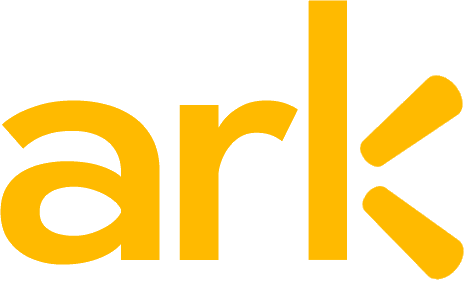
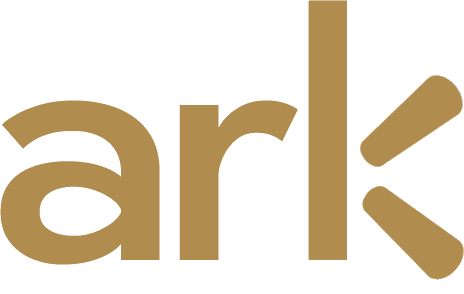
Tokenise the darks so a palette change reaches the header
The navy palette left the header black. The bar's background is
rgba(17, 17, 17, 0.94) — an rgba() literal, which cannot take a hex custom
property, so it never read --black no matter what --black was set to. Same for
the mobile menu panel, the quote card and its border.

--ink-rgb carries the ink as an rgb triple so rgba() can be built from it, and
four more tokens cover the raised and card surfaces. palette.py derives all
five from the ink at a fixed step, so a new palette still only names two real
colours.

diff --git a/styles.css b/styles.css
@@ -1,14 +1,14 @@
 :root {
-  --black: #111111;
-  --charcoal: #222226;
-  --gold: #E8B923;
-  --gold-light: #F5D566;
-  --gold-dark: #C79A15;
-  --gold-soft: rgba(232, 185, 35, 0.12);
-  --cream: #FAF8F3;
-  --gray: #6B6B6F;
-  --gray-light: #9A9A9E;
-  --border: #E8E6DF;
+  --black: #1A1310;
+  --charcoal: #2A211B;
+  --gold: #B08D4F;
+  --gold-light: #C6AD80;
+  --gold-dark: #8A6C35;
+  --gold-soft: rgba(204, 90, 49, 0.12);
+  --cream: #FAF7F1;
+  --gray: #6E655B;
+  --gray-light: #9C9287;
+  --border: #E9E1D5;
   --radius: 10px;
   --radius-lg: 16px;
   --max-width: 1160px;
@@ -23,10 +23,10 @@
   --edge: clamp(24px, calc((100vw - 1160px) / 2 + 24px), 260px);
   --hero-copy: clamp(560px, 58vw, 880px);   /* the hero's left column; the render takes the rest */
   --ease: cubic-bezier(0.16, 1, 0.3, 1);
-  --shadow-sm: 0 1px 2px rgba(17, 17, 17, 0.04), 0 1px 3px rgba(17, 17, 17, 0.03);
-  --shadow-md: 0 8px 24px rgba(17, 17, 17, 0.07), 0 2px 6px rgba(17, 17, 17, 0.04);
-  --shadow-lg: 0 24px 48px rgba(17, 17, 17, 0.14), 0 8px 16px rgba(17, 17, 17, 0.06);
-  --shadow-gold: 0 10px 24px rgba(199, 154, 21, 0.28);
+  --shadow-sm: 0 1px 2px rgba(var(--ink-rgb), 0.04), 0 1px 3px rgba(var(--ink-rgb), 0.03);
+  --shadow-md: 0 8px 24px rgba(var(--ink-rgb), 0.07), 0 2px 6px rgba(var(--ink-rgb), 0.04);
+  --shadow-lg: 0 24px 48px rgba(var(--ink-rgb), 0.14), 0 8px 16px rgba(var(--ink-rgb), 0.06);
+  --shadow-gold: 0 10px 24px rgba(141, 109, 15, 0.28);
 }
 
 * { box-sizing: border-box; margin: 0; padding: 0; }
@@ -128,7 +128,7 @@ textarea:focus-visible {
   transition: box-shadow 0.25s var(--ease), border-color 0.25s var(--ease);
 }
 .site-header.is-scrolled {
-  box-shadow: 0 4px 20px rgba(17, 17, 17, 0.06);
+  box-shadow: 0 4px 20px rgba(var(--ink-rgb), 0.06);
   border-bottom-color: transparent;
 }
 .header-inner {
@@ -221,8 +221,8 @@ textarea:focus-visible {
   display: flex;
   align-items: center;
   background:
-    radial-gradient(circle at 85% 0%, rgba(232,185,35,0.18), transparent 55%),
-    radial-gradient(circle at 0% 100%, rgba(232,185,35,0.08), transparent 45%),
+    radial-gradient(circle at 85% 0%, rgba(204, 90, 49,0.18), transparent 55%),
+    radial-gradient(circle at 0% 100%, rgba(204, 90, 49,0.08), transparent 45%),
     var(--cream);
   position: relative;
   overflow: hidden;
@@ -325,7 +325,7 @@ textarea:focus-visible {
 .service-card:hover {
   box-shadow: var(--shadow-lg);
   transform: translateY(-4px);
-  border-color: rgba(232, 185, 35, 0.4);
+  border-color: rgba(204, 90, 49, 0.4);
 }
 .service-icon {
   display: inline-flex;
@@ -741,7 +741,7 @@ a.service-card:focus-visible {
        is a five-level difference, which is invisible on a swatch and clearly
        readable as ghosted headline text once it is spread across a whole
        panel. A menu is not a place for a translucency effect. */
-    background: #141414;
+    background: var(--ink-raised);
     padding: 4px var(--edge) 14px;
     border-top: 1px solid rgba(255, 255, 255, 0.10);
     box-shadow: 0 18px 40px rgba(0, 0, 0, 0.30);
@@ -836,7 +836,7 @@ a.service-card:focus-visible {
      it follows the letterforms' alpha instead of drawing a rectangle around a
      transparent PNG. Offset down rather than spread evenly, so it reads as the
      mark sitting above the cream rather than glowing on it. */
-  filter: drop-shadow(0 3px 8px rgba(17, 17, 17, 0.22));
+  filter: drop-shadow(0 3px 8px rgba(var(--ink-rgb), 0.22));
 }
 
 .logo { --logo-h: 40px; }
@@ -1024,7 +1024,7 @@ a.service-card:focus-visible {
 
 .page-hero {
   background:
-    radial-gradient(circle at 88% 0%, rgba(232,185,35,0.16), transparent 58%),
+    radial-gradient(circle at 88% 0%, rgba(204, 90, 49,0.16), transparent 58%),
     var(--cream);
   padding: 66px 0 54px;
   border-bottom: 1px solid var(--border);
@@ -1295,7 +1295,7 @@ a.service-card:focus-visible {
   border-left: 3px solid var(--gold);
 }
 .post-body blockquote p { margin: 0; font-size: 1.08rem; }
-.post-body a { color: var(--gold-dark); border-bottom: 1px solid rgba(199,154,21,0.4); }
+.post-body a { color: var(--gold-dark); border-bottom: 1px solid rgba(141, 109, 15,0.4); }
 .post-body a:hover { border-bottom-color: currentColor; }
 .post-body code {
   background: var(--cream);
@@ -1489,7 +1489,7 @@ a.service-card:focus-visible {
    ========================================================================== */
 
 .site-header {
-  background: rgba(17, 17, 17, 0.94);
+  background: rgba(var(--ink-rgb), 0.94);
   border-bottom-color: rgba(255, 255, 255, 0.10);
 }
 .site-header.is-scrolled {
@@ -1895,3 +1895,4 @@ a.service-card:focus-visible {
 @media (prefers-reduced-motion: reduce) {
   .contact-accent, .contact-form { opacity: 1 !important; transform: none !important; }
 }
+--on-dark-muted: #C9C9CC;

diff --git a/palette.py b/palette.py
@@ -140,6 +140,18 @@ def apply(name):
     recolour(os.path.join(MASTERS, "retailmark-wordmark.png"),
              os.path.join(A, "retailmark-wordmark-dark.png"), p["ink"], p["accent"])
 
+    # Derived, not hand-specified: five more tokens all sit a fixed step off
+    # the ink, so a new palette only ever has to name two real colours.
+    ink = tuple(int(p["ink"][i:i + 2], 16) for i in (1, 3, 5))
+    step = lambda n: "#%02X%02X%02X" % tuple(min(255, v + n) for v in ink)
+    derived = {
+        "--ink-rgb": f"{ink[0]}, {ink[1]}, {ink[2]}",
+        "--ink-raised": step(3),
+        "--card-dark": step(9),
+        "--card-border": step(36),
+        "--on-dark-muted": "#%02X%02X%02X" % tuple(min(255, v + 190) for v in ink),
+    }
+
     css = os.path.join(HERE, "styles.css")
     s = open(css).read()
     for tok, val in (("--black", p["ink"]), ("--charcoal", p["charcoal"]),
@@ -148,6 +160,8 @@ def apply(name):
                      ("--gray", p["gray"]), ("--gray-light", p["gray_light"]),
                      ("--border", p["border"])):
         s = re.sub(rf'(  {re.escape(tok)}: )#[0-9A-Fa-f]{{6}};', rf'\g<1>{val};', s, count=1)
+    for tok, val in derived.items():
+        s = re.sub(rf'(  {re.escape(tok)}: )[^;]+;', rf'\g<1>{val};', s, count=1)
     acc = tuple(int(p["accent"][i:i + 2], 16) for i in (1, 3, 5))
     dark = tuple(int(p["dark"][i:i + 2], 16) for i in (1, 3, 5))
     s = re.sub(r'rgba\(232,\s*185,\s*35,', f'rgba({acc[0]}, {acc[1]}, {acc[2]},', s)
